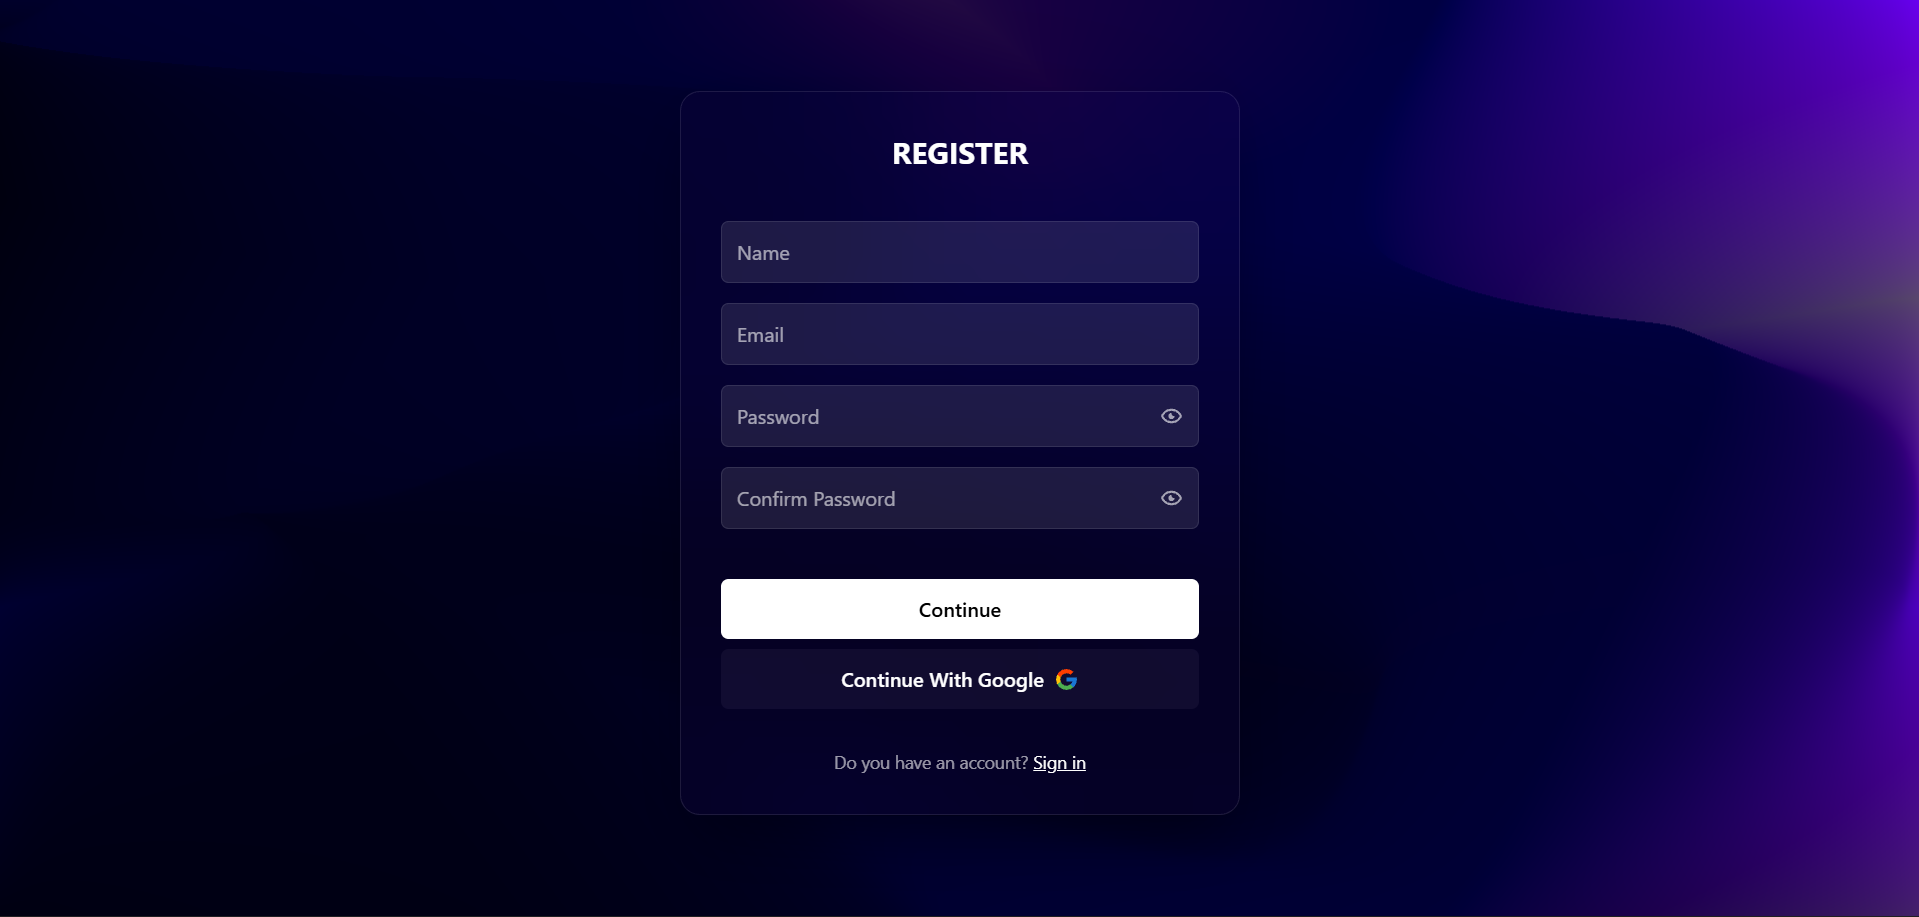
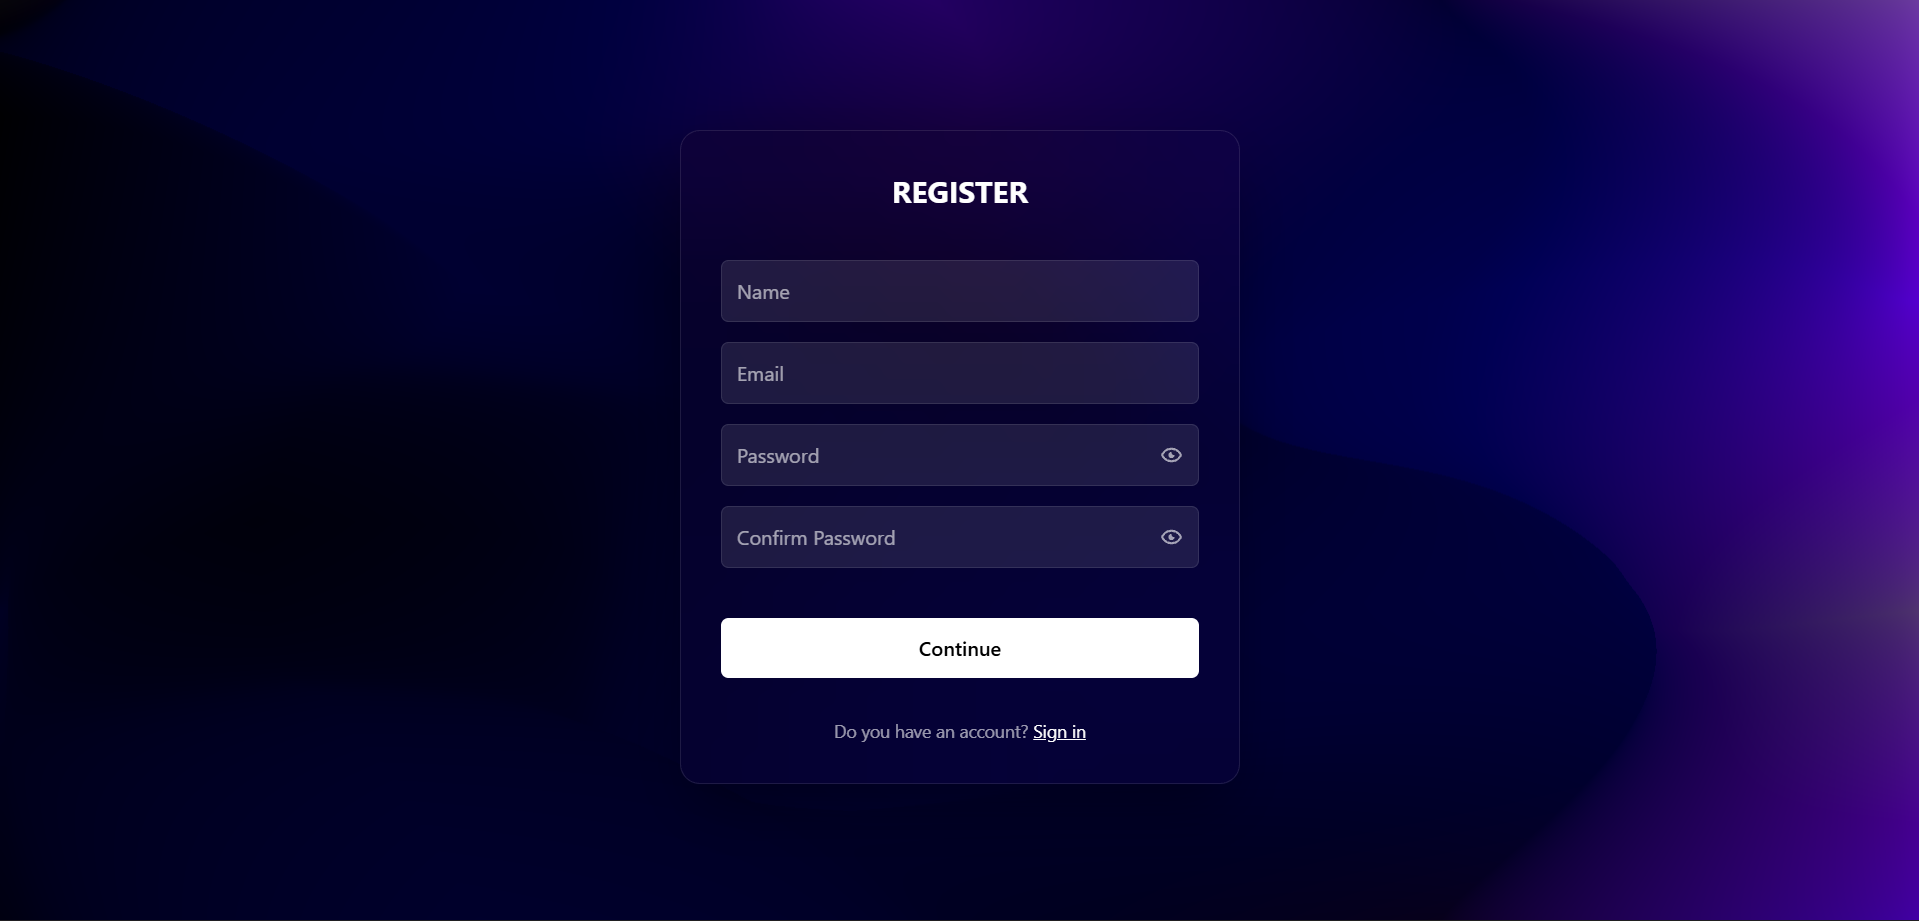
update readme

diff --git a/frontend/src/ui/RegisterForm.jsx b/frontend/src/ui/RegisterForm.jsx
@@ -143,7 +143,7 @@ const Form = () => {
         >
           Continue
         </button>
-        <a href="http://localhost:3000/auth/google">
+        {/* <a href="http://localhost:3000/auth/google">
           <button
             type="button"
             className="flex w-full cursor-pointer items-center justify-center gap-2 rounded-md bg-purple-200/5 py-3 font-medium text-white transition duration-300 hover:bg-indigo-900"
@@ -151,7 +151,7 @@ const Form = () => {
             Continue With Google
             <FcGoogle size={20} />
           </button>
-        </a>
+        </a> */}
         <p className="mt-6 text-center text-sm text-white/60">
           Do you have an account?{" "}
           <Link to="/login" className="text-white underline">

diff --git a/frontend/src/services/apiAuth.jsx b/frontend/src/services/apiAuth.jsx
@@ -29,7 +29,7 @@ export const login = async (body) => {
 
   try {
     const response = await apiRequests.post("auth/login", body);
-    toast.success("Welcome", {
+    toast.success("User created. please login", {
       id: loadingToastId,
     });
 
